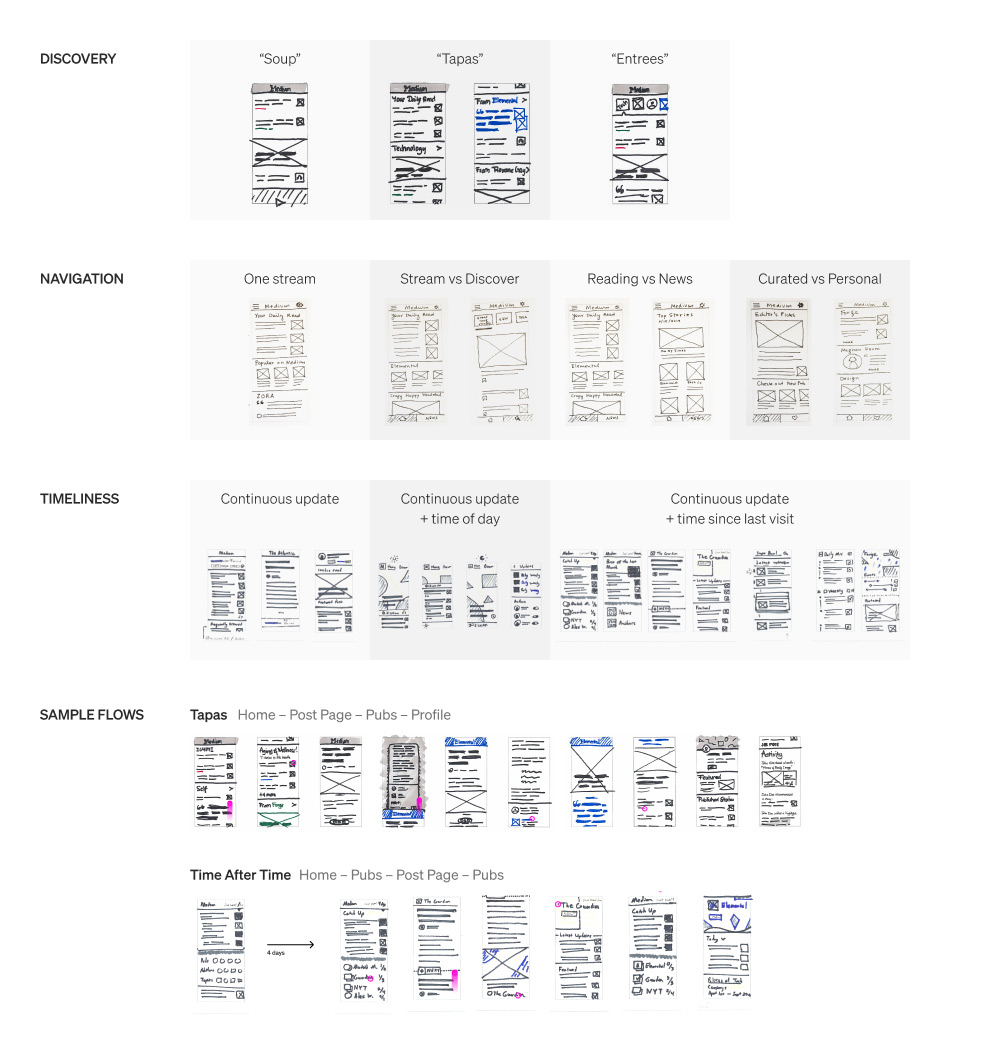
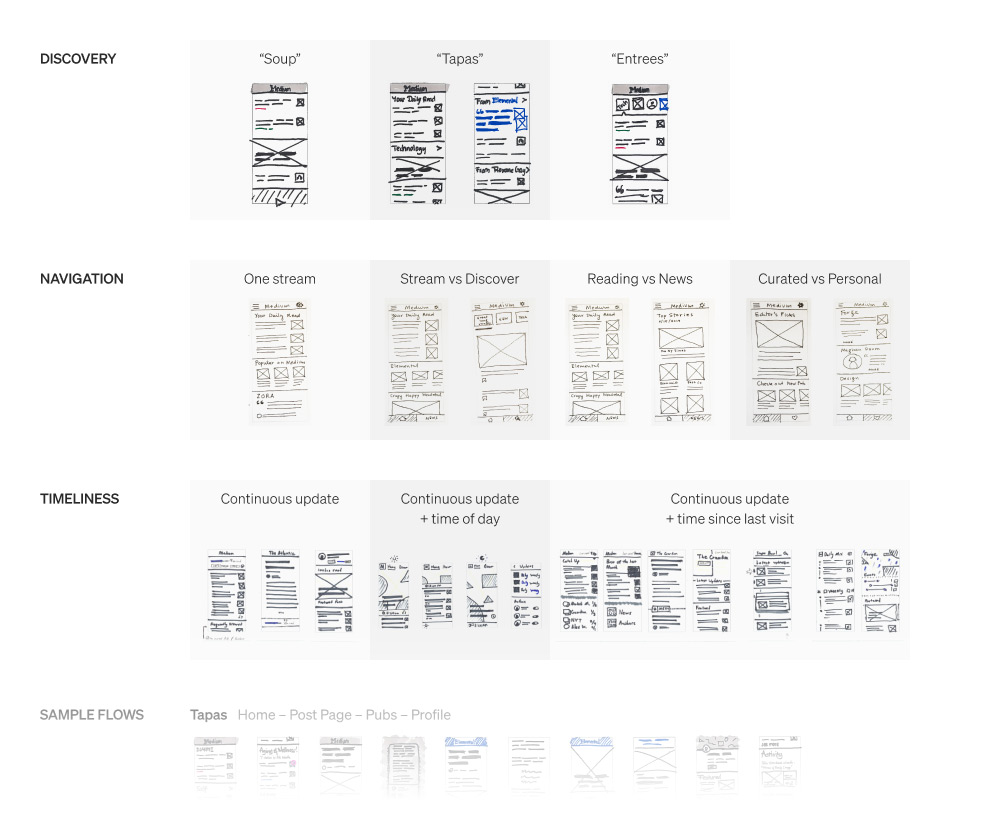
copy updates

diff --git a/work-medium-app.php b/work-medium-app.php
@@ -36,7 +36,7 @@
 				</aside>
 				<section>
 					<div class="container-section-item">
-						<p><a href="https://medium.com/" target="_blank">Medium</a> is a place where anyone can publish their ideas and find an audience among 170+ million readers on the platform. While there is an abundance of quality content on the platform, readers sometimes found it hard to discover stories from writers and publications they enjoy. This also meant that creators (writers and publications) found it challenging to build an audience on Medium. <strong>The content distribution model is starting to degrade, which harms the product experience for both readers and creators on the platform.</strong></p>
+						<p><a href="https://medium.com/" target="_blank">Medium</a> is a place where anyone can publish their ideas and find an audience among 170+ million readers on the platform. While there is an abundance of quality content on the platform, readers sometimes found it hard to discover stories from writers and publications they enjoy. This also meant that creators (writers and publications) found it challenging to build an audience on Medium. <strong>The existing content distribution model was no longer serving readers and creators well, which harmed the product experience and impacted the business&rsquo; growth.</strong> To address this, we set to overhaul the content consumption experience, starting with the app.</p>
 					</div>
 				</section>
 			</div>
@@ -53,16 +53,15 @@
 							<figcaption>The existing app experience relied heavily on algorithmically-ranked stories in a feed</figcaption>
 						</figure>
 						<p>Users find Medium content from both internal sources (e.g. medium.com homepage, app, email digests) and external (e.g. social media, messaging, email). App users are a smaller group compared to web users, but they also tend to be more engaged with the product, i.e. they use the product more frequently, read more stories, etc.</p>
-						<p>The existing app relied heavily on algorithmically-ranked stories in a feed, which worked relatively fine. It served millions of users and drove a significant part of the business (via paid subscription). Over time, however, the content distribution had become <a href="https://ev.medium.com/toward-a-more-relational-medium-e801ff4653a4" target="_blank">more transactional and less relational</a>, which led to more headline-driven content and less robust discovery.</p>
-						<p>Ultimately, this ran contrary to the company&rsquo;s mission and would have a deleterious impact on the user experience in the long term. This is especially important for paying members, who are at risk of attrition if they no longer find value in the content that Medium has to offer.</p>
-						<p>Given that app users are smaller in number yet more highly engaged overall, we decided that the app would be a good place to test out our ideas before rolling out more globally. </p>
+						<p>The existing app relied heavily on algorithmically-ranked stories in a feed, which worked relatively fine in the past. It served millions of users and drove a significant part of the business (via paid subscription). Over time, however, the content distribution had become <a href="https://ev.medium.com/toward-a-more-relational-medium-e801ff4653a4" target="_blank">more transactional and less relational</a>, which led to more headline-driven content and less robust discovery.</p>
+						<p>This is an especially important consideration for paying members, who are <strong>at risk of attrition</strong> if they no longer find value in the content that Medium has to offer. Given that app users are smaller in number yet more highly engaged overall, we decided that the app would be a good place to test out our ideas before rolling out more globally. </p>
 					</div>
 				</section>
 			</div>
 
 			<div class="container-section">
 				<aside>
-					<h2>SETTING THE STAGE</h2>
+					<h2>SETTING THE &ldquo;NORTH STAR&rdquo; VISION</h2>
 					<hr class="separator" />
 				</aside>
 				<section>
@@ -75,7 +74,7 @@
 							</ul>							
 						</p>
 						<figure>
-							<img src="_images/work-medium-app-north-star-sketches.jpg" alt="Initial sketches exploring the new app experience. Designs by Andrew Johnson, Hilla Katki, Matthew Herzog, and me." width="1000" height="1041" >
+							<img src="_images/work-medium-app-north-star-sketches.jpg" alt="Initial sketches exploring the new app experience. Designs by Andrew Johnson, Hilla Katki, Matthew Herzog, and me." width="1000" height="820" >
 							<figcaption>Initial sketches exploring the new app experience.<br/>Designs by Andrew Johnson, Hilla Katki, Matthew Herzog, and me.</figcaption>
 						</figure>
 						<p>From here, we built a scrappy prototype and shared it with executives (and later with the whole company) to get input and buy-in. </p>
@@ -89,19 +88,19 @@
 
 			<div class="container-section">
 				<aside>
-					<h2>PLANNING &amp; ROADMAP</h2>
+					<h2>PRODUCT PRINCIPLES &amp; PLANNING</h2>
 					<hr class="separator" />
 				</aside>
 				<section>
 					<div class="container-section-item">
-						<p>The output from the design sprint helped create alignment across the board and while the resulting designs weren&rsquo;t final, they pointed in the right direction. Given the scale of this project, we thought it&rsquo;d be useful to establish some core principles that would guide us along the way. Alexis Lloyd (VP Design) led this exercise and we established the following principles:
+						<p>The output from the design sprint helped create alignment across the board and while the resulting designs weren&rsquo;t final, they pointed in the right direction. Given the scale of this project, we established some core principles to guide us along the way:
 							<ul>
 								<li><strong>Context</strong><br/>As a reader, I know exactly where I am in Medium&rsquo;s ecosystem and I can navigate to/from other parts of Medium with confidence.</li>
 								<li><strong>Continuity</strong><br/>As a reader, I can seamlessly move from one story to another (or from one writer/publication to another) with ease and I&rsquo;m always discovering something new on Medium.</li>
 								<li><strong>Completion</strong><br/>As a reader, I feel a sense of accomplishment and learning after spending time on Medium. My time is well-spent and I&rsquo;m not consuming content endlessly.</li>
 							</ul>							
 						</p>
-						<p>Redesigning a mobile app is no small feat, so to make it more manageable, I worked with product managers on the team to break it down into smaller chunks. By doing this, we could tackle multiple key parts of the experience and work on them in parallel. We also planned out how we would test this with users along the way.</p>
+						<p>Redesigning a mobile app is no small feat, so to make it more manageable, I worked with product managers to break it down into smaller chunks. By doing this, we could tackle multiple key parts of the experience and work on them in parallel. We also planned out how we would test this with users along the way.</p>
 						<figure>
 							<img src="_images/work-medium-app-plan.png" alt="work-medium-app-plan" width="2560" height="1200" >
 							<figcaption>A high-level plan to make the vision a reality.</figcaption>
@@ -112,7 +111,7 @@
 
 			<div class="container-section">
 				<aside>
-					<h2>THE CORE READING EXPERIENCE</h2>
+					<h2>THE CORE READING EXPERIENCE, REIMAGINED</h2>
 					<hr class="separator" />
 				</aside>
 				<section>
@@ -122,9 +121,9 @@
 							<img src="_images/work-medium-app-seamless-old.gif" alt="work-medium-app-seamless-old" width="300" height="300" >
 							<figcaption>In an early concept, stories were treated like cards in a stack and users could go from one story to the next seamlessly.</figcaption>
 						</figure>
-						<p>I proposed an initial idea to improve continuity by treating stories like a stack of cards where the user could continuously read one story after another or &ldquo;skip&rdquo; to the next story if desired.</p>
-						<p>This tested fairly well with users, who adapted to the concept and began using the &ldquo;next&rdquo; button as a way to preview stories beyond the headlines. This insight showed us that there was value in a slightly longer story preview, which gave users a little more context beyond the story title.</p>
-						<p>After more explorations, we moved away from the &ldquo;stack of cards&rdquo; metaphor. To simplify the model even further, we settled on a design where longer story previews were displayed one after another in the context of the writer/publication, and the full story is expanded inline within the same context. By doing so, the story&rsquo;s context is always clear and we enable the user to seamlessly discover other stories from the same entity simply by scrolling.</p>
+						<p>I proposed an initial idea to treat stories like a stack of cards where the user could continuously read one story after another or &ldquo;skip&rdquo; to the next story if desired.</p>
+						<p>This tested fairly well with users, who began using the &ldquo;next&rdquo; button as a way to preview stories beyond the headlines. This insight showed us that there was value in a longer story preview, which gave users more context.</p>
+						<p>After more explorations, we moved away from the &ldquo;stack of cards&rdquo; metaphor and simplified it further. We settled on a design where longer story previews were displayed one after another in the context of the writer/publication, and the full story is expanded inline within the same context. By doing so, the story&rsquo;s context is always clear and the user could seamlessly discover other stories from the same entity simply by scrolling.</p>
 						<figure class="figure-l figure-side-by-side">
 							<img class="figure-side-by-side-size-l" src="_images/work-medium-app-seamless.png" alt="Viewing the full story inline keeps users in the same context and nudges them to continue discovering other stories, which are displayed immediately following the open story." width="1526" height="1300" >
 							<video class="figure-side-by-side-size-s" src="_images/work-medium-app-seamless.mp4" width="" height="" autoplay muted loop controls></video>
@@ -144,8 +143,8 @@
 				</aside>
 				<section>
 					<div class="container-section-item">
-						<p>We saw the redesign process as an opportunity to simplify the overall app architecture. Our usage data and research showed that the mobile app was primarily used for reading. Writers and publication editors may occasionally edit their stories or check their story stats in the app, but the majority of creator activities occurred on desktop web. As such, we didn&rsquo;t think that &ldquo;write&rdquo; warranted such a premium placement in the app&rsquo;s primary navigation bar. We moved it out of the nav bar and into the user&rsquo;s &ldquo;you&rdquo; tab, making it secondary but still fairly accessible.</p>
-						<p>Our data also showed that <a href="https://medium.design/a-library-to-call-your-own-9c1fcdb6e4bc" target="_blank">reading list</a>, a place for the user&rsquo;s saved stories, was a heavily used feature but only by a portion of app users. We didn&rsquo;t want to hide it completely, but placing it in the primary navigation bar didn&rsquo;t seem right for most users either. We eventually decided to tuck it inside app home, which seemed to be the right compromise. Since home is the first surface in the app, users could still easily access the reading list if they wanted to, but those who don&rsquo;t use reading list aren&rsquo;t constantly seeing it in the primary nav bar.</p>
+						<p>Our data showed that the mobile app was primarily used for reading. Writers and publication editors may occasionally edit their stories or check their story stats in the app, but the majority of creator activities occurred on desktop web. As such, we didn&rsquo;t think that &ldquo;write&rdquo; warranted such a premium placement in the app&rsquo;s primary navigation bar.</p>
+						<p>Our data also showed that <a href="https://medium.design/a-library-to-call-your-own-9c1fcdb6e4bc" target="_blank">reading list</a>, a place for the user&rsquo;s saved stories, was a heavily used feature but only by a portion of app users. We didn&rsquo;t want to hide it completely, but placing it in the primary navigation bar didn&rsquo;t seem right for most users either. We eventually decided to tuck it inside app home, which is the first app surface that users see. Thus, users could still easily access the reading list if they wanted to, but those who don&rsquo;t use reading list aren&rsquo;t constantly seeing it in the primary nav bar.</p>
 						<figure>
 							<img src="_images/work-medium-app-architecture.png" alt="Simplifying the base app architecture creates a more focused experience." width="1560" height="974" >								
 							<figcaption>Simplifying the base app architecture creates a more focused experience.</figcaption>
@@ -156,7 +155,7 @@
 
 			<div class="container-section">
 				<aside>
-					<h2>HOME SWEET HOME</h2>
+					<h2>A NEW APP HOME</h2>
 					<hr class="separator" />
 				</aside>
 				<section>
@@ -183,13 +182,13 @@
 
 			<div class="container-section">
 				<aside>
-					<h2>LISTENING TO USERS</h2>
+					<h2>FEEDBACK FROM RESEARCH</h2>
 					<hr class="separator" />
 				</aside>
 				<section>
 					<div class="container-section-item">
-						<p>Research findings from the first private beta group helped shape the design and led us to a more robust version of the product. As we prepared for the second, larger private beta group, we wanted to include both qualitative and quantitative measures so we could get a more holistic understanding. In addition to the ongoing user interviews, we set up an in-app feedback form to get more user input and programmed events tracking in the beta app to capture user behavior. Researcher Laura Carroll also set up benchmark surveys to measure user satisfaction more broadly and consistently as the product continued to evolve.</p>
-						<p>From this survey, we saw that a majority of respondents (58%) was either very or somewhat satisfied with the beta version of the app. On the other hand, we also received feedback around story discovery, with one user remarking that &ldquo;&hellip; [i]t&rsquo;s more difficult to find article suggestions as well as to bookmark to read later.&rdquo; We knew that moving away from the infinite feed would negatively impact some users who are used to discovering content that way. That said, we also measured other success metrics that would be more indicative of where the product was heading towards strategically.</p>
+						<p>Research findings from the first private beta group helped shape the design and led us to a more robust version of the product. As we prepared for the second, larger private beta group, we wanted to include both qualitative and quantitative measures so we could get a more holistic understanding. In addition to the ongoing user interviews, we set up an in-app feedback form and programmed events tracking. Researcher Laura Carroll also set up benchmark surveys to measure user satisfaction more broadly and consistently.</p>
+						<p>From this survey, we saw that <strong>a majority of respondents (58%) was either very or somewhat satisfied with the beta version of the app.</strong> On the other hand, we also received feedback around story discovery, with one user remarking that &ldquo;&hellip; [i]t&rsquo;s more difficult to find article suggestions as well as to bookmark to read later.&rdquo; We knew that moving away from the infinite feed would negatively impact some users who are used to discovering content that way. That said, we also measured other success metrics that would be more indicative of where the product was heading towards strategically.</p>
 						<figure>
 							<table id="table-desktop">
 								<tr class="table-header">
@@ -261,7 +260,7 @@
 							</table>
 							<p class="text-secondary">Note: &ldquo;Members&rdquo; are Medium users who have purchased subscriptions and have access to all stories on Medium. &ldquo;Non-members&rdquo; are Medium users who are registered but aren&rsquo;t subscribed; they can access stories that aren&rsquo;t behind the paywall, but are limited to 3 stories/month for paywalled stories.</p>
 						</figure>
-						<p>Initial quantitative results suggested that the new app experience drove entity affinity across the board. Users were generally following more creators and reading more content from said creators. It remained to be seen whether this would translate more broadly to all users, but early signs were promising.</p>
+						<p>Initial quantitative results suggested that the new app experience drove entity affinity across the board. <strong>Users were generally following more creators and reading more content from said creators.</strong> It remained to be seen whether this would translate more broadly to all users, but early signs were promising.</p>
 					</div>
 				</section>
 			</div>
@@ -278,18 +277,18 @@
 							<img src="_images/work-medium-app-meter.jpg" alt="When non-members select a story to read, they have to tap twice to load a paywalled story in full, whereas members would see the full story immediately. Non-members will also see the meter information as they read, which informs them on how many free paywalled stories they have left. In certain cases, some friction in the experience is a good thing." width="1620" height="1561" >
 							<figcaption>When non-members select a story to read, they have to tap twice to load a paywalled story in full, whereas members would see the full story immediately. Non-members will also see the &ldquo;meter&rdquo; information as they read, which informs them on how many free paywalled stories they have left. In certain cases, some friction in the experience is a good thing.</figcaption>
 						</figure>
-						<p>Medium&rsquo;s product changes were accompanied by an <a href="https://blog.medium.com/a-more-expressive-medium-starting-with-medium-63b562206d8f" target="_blank">evolved brand</a> that conveys the openness of the platform. This brand identity is an integral part of Medium&rsquo;s future direction and as such, must be communicated through all product surfaces. I collaborated with the brand team to design and implement this language in product (which included significant changes to typography, colors, and illustration styles), and coordinated subsequent efforts with other designers and scrum teams on the product side for final implementation.</p>
+						<p>Medium&rsquo;s product changes were accompanied by an <a href="https://blog.medium.com/a-more-expressive-medium-starting-with-medium-63b562206d8f" target="_blank">evolved brand</a> that conveys the openness of the platform, which is integral to Medium&rsquo;s future direction. I collaborated with the brand team to design and implement this brand language across various product surfaces. <!--I collaborated with the brand team to design and implement this language in product (which included significant changes to typography, colors, and illustration styles), and coordinated subsequent efforts with other designers and scrum teams on the product side for final implementation.--></p>
 						<figure class="figure-l">
 							<img src="_images/work-medium-app-rebrand.jpg" alt="Medium's evolved brand as seen on various product surfaces, including dark mode on app. Additional designs by Abby Aker (email digest) and Ryan Hubbard (web homepage)." width="1540" height="1076" >
 							<figcaption>Medium&rsquo;s evolved brand as seen on various product surfaces, including dark mode on app.<br/>Additional designs by Abby Aker (email digest) and Ryan Hubbard (web homepage).</figcaption>
 						</figure>
 						<p>Medium&rsquo;s own brand wasn&rsquo;t the only thing that changed. As designers on the reader experience group worked through the app designs, there was a parallel effort happening on the creator side to <a href="https://blog.medium.com/a-more-expressive-medium-483e567b19ff" target="_blank">enable more expressiveness through customizations</a>. This would result in a better sense of brand, place, and context for creators and their work on Medium.</p>
-						<p>Naturally, the creator&rsquo;s creative decisions needed to be translated into the app so readers could experience it as they read content from various writers and publications. However, the app environment differed slightly from its web counterpart and had its own constraints. To get around these limitations, we decided that the app&rsquo;s official first version would only show key parts of the customization (with future plans to implement themes in full).</p>
+						<p>Naturally, the creator&rsquo;s creative decisions needed to be translated into the app so readers could experience it as they read content from various writers and publications. Due to technical constraints, we decided that the app&rsquo;s official first version would only show key parts of the customization (with future plans to implement themes in full).</p>
 						<figure>
 							<img src="_images/work-medium-app-themes.jpg" alt="An example of different themes being applied to the same publication to convey a sense of brand, place, and context. The app's official first version would show essential parts of the customization, with a more complete implementation to follow." width="1542" height="1590" >
 							<figcaption>An example of different themes being applied to the same publication to convey a sense of brand, place, and context. The app&rsquo;s official first version would show essential parts of the customization, with a more complete implementation to follow.</figcaption>
 						</figure>
-						<p>All the product and brand changes that happened during this process unfortunately strained our existing design system. We found that some of the components, semantics, and structure we had been using no longer served our product needs and consequently, we decided to make some fundamental updates to the system. I also used this opportunity to improve accessibility in the system, which resulted in better usability on all product surfaces. I then conducted an audit across all our product surfaces and stress-tested the proposed changes to ensure the system was not only robust enough for current uses, but also flexible enough to accommodate future changes if needed.</p>
+						<p>All the product and brand changes that happened during this process strained our existing design system. Some of the components, semantics, and structure we had been using no longer served our product needs and consequently, we decided to make some fundamental updates to the system, including accessibility improvements. I then conducted an audit across all our product surfaces and stress-tested the proposed changes to ensure that the system was robust enough for current uses and flexible enough to accommodate future changes.</p>
 						<figure class="figure-l">
 							<img src="_images/work-medium-app-design-system.jpg" alt="Changes to the design system had to be audited and evaluated globally. Above is an example of how I stress-tested typography changes across product surfaces." width="2400" height="1720" >							
 							<figcaption>Changes to the design system had to be audited and evaluated globally. Above is an example of how I stress-tested typography changes across product surfaces.</figcaption>

diff --git a/_inc/work-list.php b/_inc/work-list.php
@@ -2,8 +2,8 @@
 
 	$work = [
 		[
-			"Medium Mobile App",
-			"Reimagining a mobile experience for curious readers",
+			"Medium App Redesign",
+			"Building stronger connections between readers and creators",
 			"work-medium-app.php",
 			"work-medium-app-cover.jpg"
 		],
